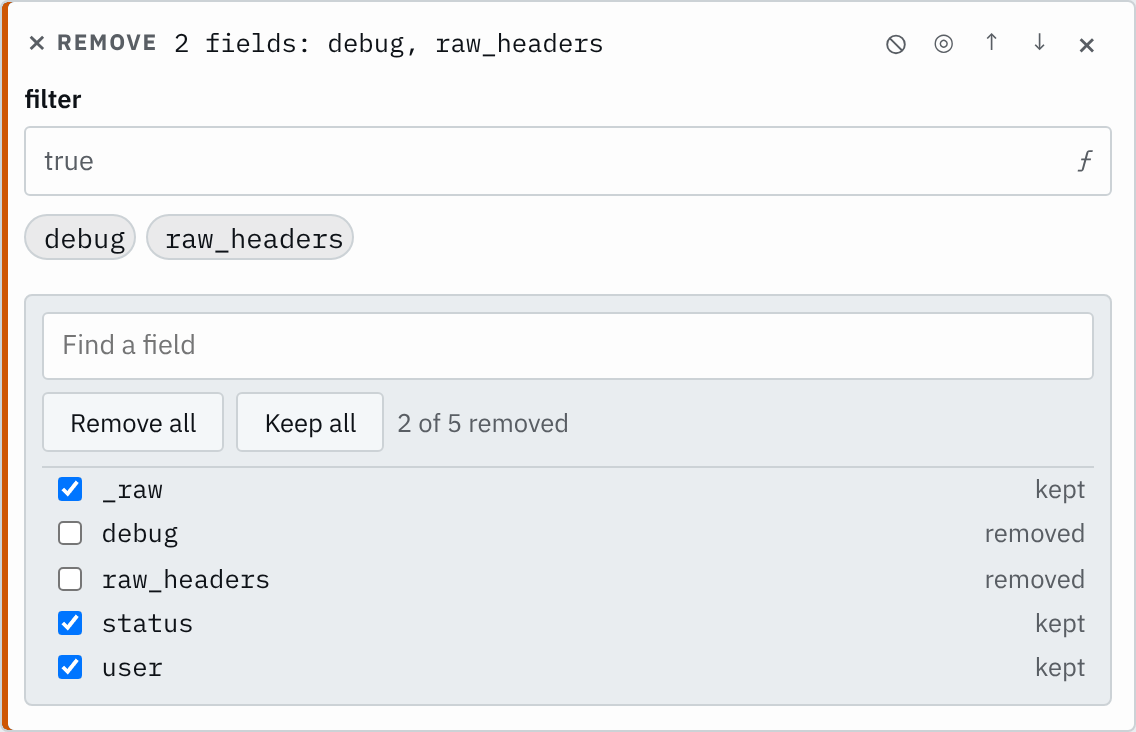
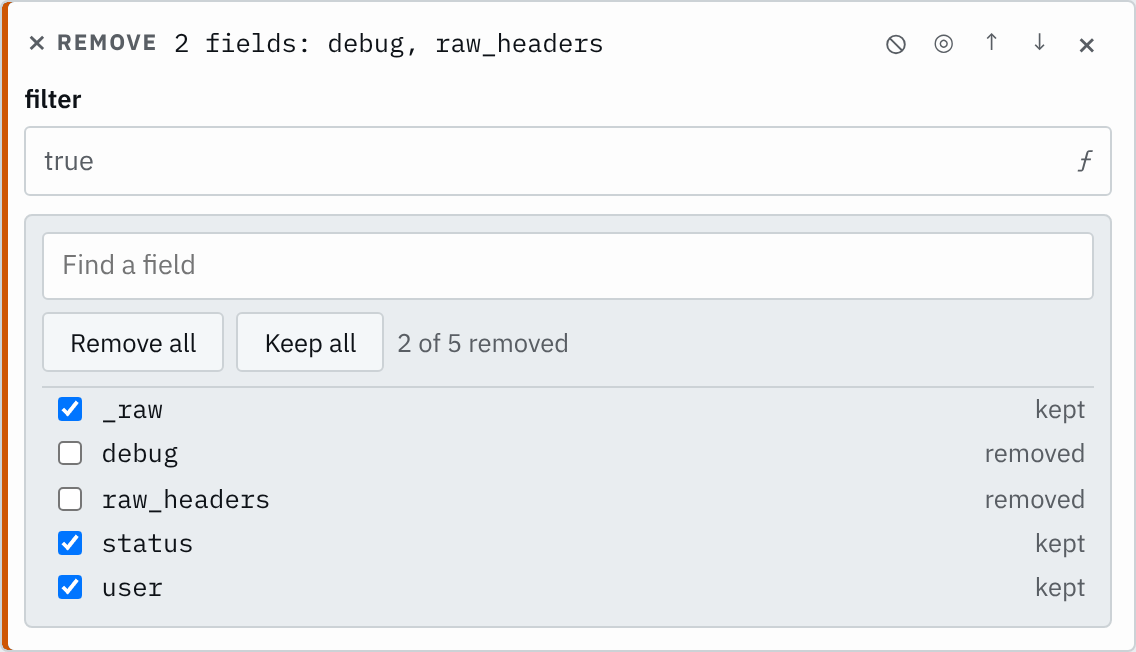
Remove step: drop the removed-field chips
The tick list already shows what is removed; chips that do nothing were noise.

Claude-Session: https://claude.ai/code/session_016X7h2Up93FTzm5MPSM2jwR

diff --git a/gui-frontend/src/RemoveFields.svelte b/gui-frontend/src/RemoveFields.svelte
@@ -1,11 +1,10 @@
 <!--
-  A Remove step's fields: a chip for each it removes, and the fields declared before the step, each ticked while it
-  is kept. Remove all and Keep all act on what the search shows, as the Fields menu's Select all does. A name
-  that matches no field can still be removed, from a link under the search box.
+  A Remove step's fields: the fields declared before the step, each ticked while it is kept. Remove all and Keep all
+  act on what the search shows, as the Fields menu's Select all does. A name that matches no field can still be
+  removed, from a link under the search box.
 -->
 <script lang="ts">
   import { untrack } from 'svelte';
-  import RemovableChip from './RemovableChip.svelte';
   import type { DotAnswer } from './api';
 
   let {
@@ -65,13 +64,6 @@
   }
 </script>
 
-{#if fields.length}
-  <div class="chips">
-    {#each fields as f (f)}
-      <RemovableChip removeLabel={`keep ${f}`}><span class="mono">{f}</span></RemovableChip>
-    {/each}
-  </div>
-{/if}
 <div class="picker">
   <input type="search" bind:value={query} placeholder="Find a field" aria-label="Find a field" />
   {#if !readOnly}
@@ -113,14 +105,6 @@
 </div>
 
 <style>
-  .chips {
-    display: flex;
-    flex-wrap: wrap;
-    gap: 0.3rem;
-    max-height: 7.5rem;
-    overflow-y: auto;
-  }
-
   .mono {
     font-family: var(--mono);
   }
@@ -134,7 +118,6 @@
     display: flex;
     flex-direction: column;
     gap: 0.4rem;
-    margin-top: 0.5rem;
     padding: 0.5rem;
     border: 1px solid var(--border);
     border-radius: var(--radius-card);

diff --git a/docs/gui-design.md b/docs/gui-design.md
@@ -437,9 +437,9 @@ column CSV should drop is typed `skip`, which keeps the columns after it
 aligned without inventing a field.
 
 A Remove step lists the fields declared before it, as the compiler types
-them, each ticked while it is kept, and a chip for each field it removes. Its search, Remove all and Keep all act on what the search shows, as
-the Fields menu's Select all does. A name that matches no field can still be
-removed, from a link under the search box.
+them, each ticked while it is kept. Its search, Remove all and Keep all act on
+what the search shows, as the Fields menu's Select all does. A name that
+matches no field can still be removed, from a link under the search box.
 
 ## Lists
 
